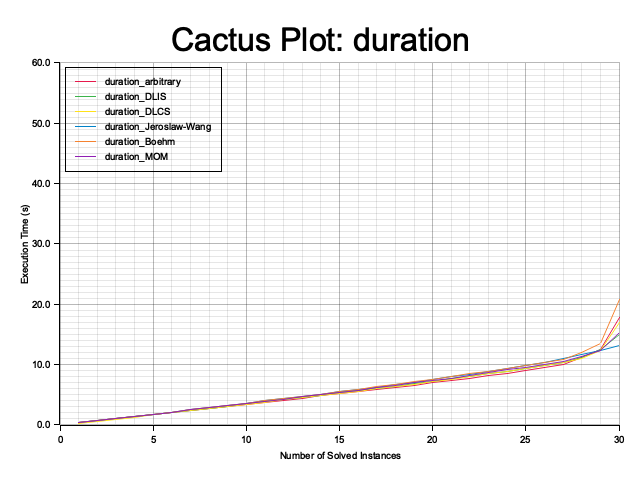
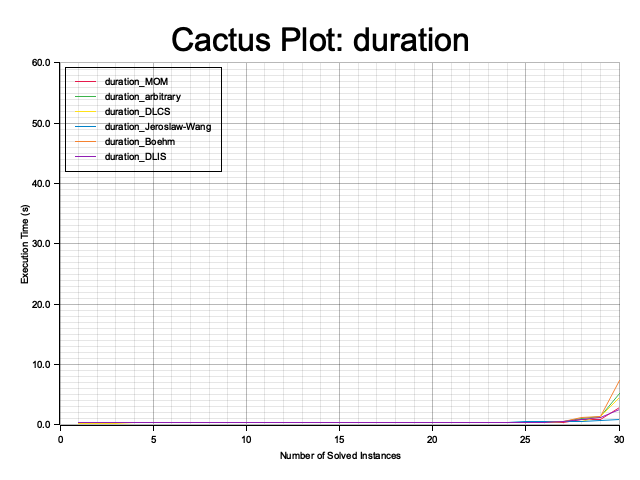
adjustment cactus plot
Former-commit-id: 9ad618d8387eeb5a626c42a16de8c6b10b5dcc37

diff --git a/src/visuals/cactus.rs b/src/visuals/cactus.rs
@@ -1,68 +1,48 @@
-use plotters::prelude::*;
 use csv::Reader;
-use std::error::Error;
+use plotters::prelude::*;
 use glob::glob;
 use std::collections::HashMap;
+use std::error::Error;
 
 fn main() -> Result<(), Box<dyn Error>> {
-    // Define file patterns and output directory
     let patterns = ["src/cputime/60sec_*.csv", "src/cputime/duration_*.csv"];
     let output_dir = "src/visuals/plots";
 
-    // Create the output directory if it doesn't exist
     std::fs::create_dir_all(output_dir)?;
 
-    // Iterate over each pattern
     for pattern in patterns.iter() {
-        // Create a HashMap to store the data
         let mut all_data: HashMap<String, Vec<f64>> = HashMap::new();
 
-        // Iterate over each file matching the pattern
         for entry in glob(pattern)? {
             let path = entry?;
-            let file_name = path.file_stem().ok_or("Invalid file name")?.to_str().ok_or("Invalid file name")?;
+            let heuristic_name = path.file_stem().ok_or("Invalid file name")?.to_str().ok_or("Invalid file name")?;
 
-            // Read the CSV file
-            let path_clone = path.clone();
-            let mut rdr = Reader::from_path(path_clone)?;
-        
-            // Iterate over each record in the CSV file
+            let mut rdr = Reader::from_path(&path)?;
             for result in rdr.records() {
                 let record = result?;
-                let execution_time: f64 = record[3].parse().unwrap_or(0.0);
-                // Insert the execution time into the HashMap
-                all_data.entry(file_name.to_string()).or_insert_with(Vec::new).push(execution_time);
+                let status = &record[2];
+                if status == "SAT" || status == "UNSAT" {
+                    let execution_time: f64 = record[3].parse().unwrap_or(0.0);
+                    all_data.entry(heuristic_name.to_string()).or_insert_with(Vec::new).push(execution_time);
+                }
             }
         }
 
-        // If the HashMap is not empty, create a cactus plot
         if !all_data.is_empty() {
-            if pattern.contains("60sec")
-            {
-                create_cactus_plot(&all_data, "60sec", output_dir)?;
-            }
-            else if pattern.contains("duration")
-            {
-                create_cactus_plot(&all_data, "duration", output_dir)?;
-            }
-
+            let plot_name = if pattern.contains("60sec") { "60sec" } else { "duration" };
+            create_cactus_plot(&all_data, plot_name, output_dir)?;
         }
     }
 
     Ok(())
 }
 
-// Function to create a cactus plot
 fn create_cactus_plot(data: &HashMap<String, Vec<f64>>, plot_name: &str, output_dir: &str) -> Result<(), Box<dyn Error>> {
-    // Define the output file path
     let output_file = format!("{}/{}_cactus_plot.png", output_dir, plot_name);
-    // Create a drawing area
     let root = BitMapBackend::new(&output_file, (640, 480)).into_drawing_area();
     root.fill(&WHITE)?;
 
-    let margin = 20; // Margin size in pixels
-
-    // Create a chart with labels and margins
+    let margin = 20;
     let mut chart = ChartBuilder::on(&root)
         .caption(format!("Cactus Plot: {}", plot_name), ("sans-serif", 40).into_font())
         .margin(margin)
@@ -70,41 +50,27 @@ fn create_cactus_plot(data: &HashMap<String, Vec<f64>>, plot_name: &str, output_
         .y_label_area_size(40)
         .build_cartesian_2d(0..data.values().map(|v| v.len()).max().unwrap_or(0), 0f64..60f64)?;
 
-    // Configure the mesh of the chart
     chart.configure_mesh()
         .x_desc("Number of Solved Instances")
         .y_desc("Execution Time (s)")
         .draw()?;
 
     let mut color_index = 0;
-    // Iterate over each heuristic and its corresponding execution times
     for (heuristic, times) in data {
         let mut sorted_times = times.clone();
         sorted_times.sort_by(|a, b| a.partial_cmp(b).unwrap());
-    
-        // Calculate the cumulative sum of the execution times
-        let mut cumulative_sum = 0.0; 
-        let points: Vec<(usize, f64)> = sorted_times.iter().enumerate().map(|(idx, &time)| {
-            cumulative_sum += time;
-            (idx + 1, cumulative_sum)
-        }).collect();
+
+        let points: Vec<(usize, f64)> = sorted_times.iter().enumerate().map(|(idx, &time)| (idx + 1, time)).collect();
         
         let color = Palette99::pick(color_index);
-        let legend_color_index = color_index; 
-    
-        // Draw a line series for each heuristic
         chart.draw_series(
             LineSeries::new(points, &color)
         )?.label(heuristic)
-         .legend(move |(x, y)| {
-            let legend_color = Palette99::pick(legend_color_index);
-            PathElement::new(vec![(x, y), (x + 20, y)], &legend_color)
-        });
+         .legend(move |(x, y)| PathElement::new(vec![(x, y), (x + 20, y)], &color));
     
         color_index += 1;
     }
-    
-    // Configure the series labels of the chart
+
     chart.configure_series_labels()
         .border_style(&BLACK)
         .position(SeriesLabelPosition::UpperLeft)
